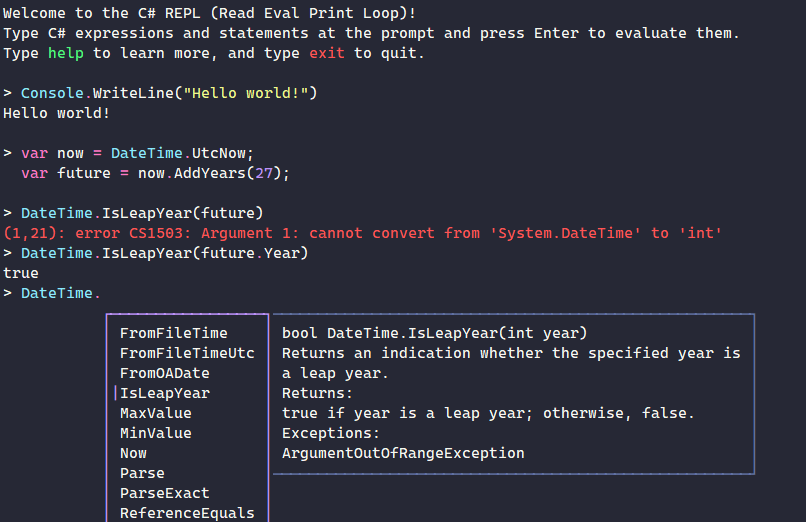
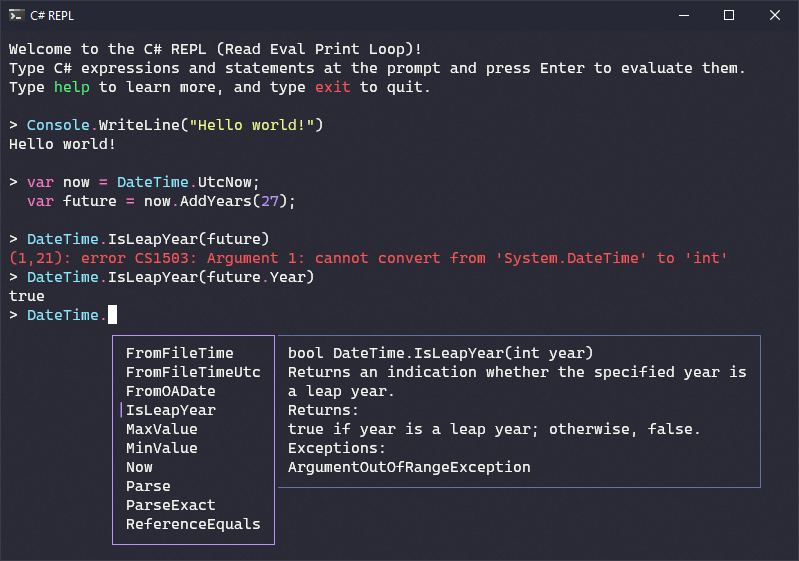
add additional integration examples

Changed region(s): [[0.0, 0.3985, 0.9612, 1.0], [0.0, 0.0, 0.9312, 0.3678]]

diff --git a/README.md b/README.md
@@ -126,3 +126,24 @@ Supported options are:
     - `-h` or `--help`: Show this help and exit.
 - `response-file.rsp`: A filepath of an .rsp file, containing any of the above command line options.
 - `script-file.csx`: A filepath of a .csx file, containing lines of C# to evaluate before starting the REPL.
+
+## Integrating with other software
+
+# Windows Terminal
+
+To add the C# REPL as a menu entry in Windows Terminal, add the following profile to Windows Terminal's `settings.json` configuration file (under the JSON property `profiles.list`):
+
+```json
+{
+    "name": "C# REPL",
+    "commandline": "csharprepl"
+},
+```
+
+# Visual Studio Code
+
+To use the C# REPL with Visual Studio Code, simply run the `csharprepl` command in the Visual Studio Code terminal. To send commands to the REPL, use the built-in `Terminal: Run Selected Text In Active Terminal` command from the Command Palette (`workbench.action.terminal.runSelectedText`).
+
+<p align="center">
+  <img src="https://raw.githubusercontent.com/waf/CSharpRepl/main/.github/readme_assets/vscode.png" alt="Visual Studio Code screenshot" style="max-width:100%;">
+</p>